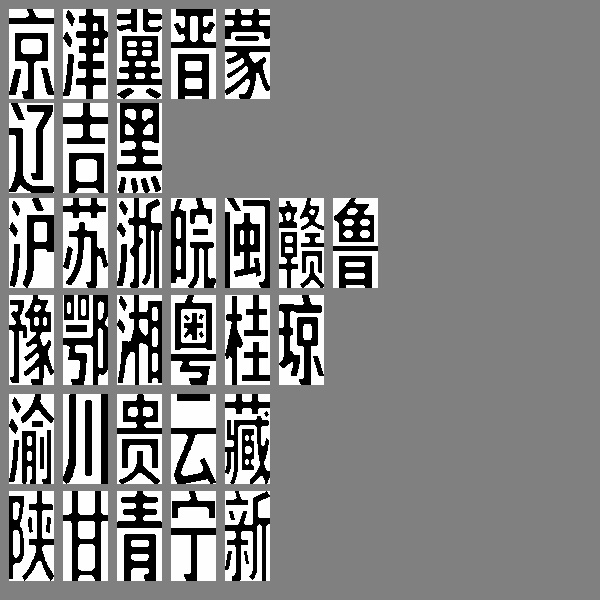
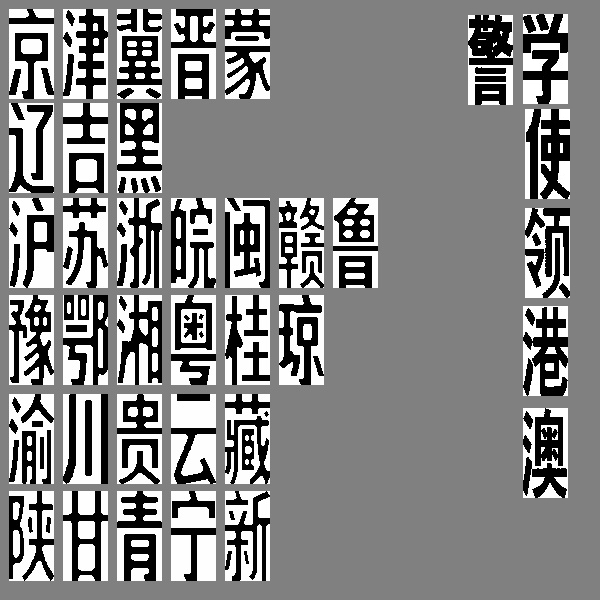
add police/ebassy ...

Changed region(s): [[0.78, 0.0, 0.96, 0.84]]

diff --git a/paste.py b/paste.py
@@ -17,6 +17,15 @@ for char_path in char_paths:
         color = 0
         if 'blue' in bg_path or 'black' in bg_path:
             color = 255
+        if char == '警':
+            if 'white' not in bg_path:
+                continue
+            color = [36, 27, 237]
+        if char == '学' and 'yellow' not in bg_path:
+            continue
+        if char in ['使', '领', '港', '澳']:
+            if 'black' not in bg_path:
+                continue
         bg_img = cv2.imread(bg_path, -1)
         bg_img = cv2.resize(bg_img, (w, h))
 

diff --git a/slice.py b/slice.py
@@ -1,7 +1,7 @@
 import cv2
 import numpy as np
 
-img = cv2.imread('alp.jpg', 0)
+img = cv2.imread('pro.jpg', 0)
 
 tmp = img.copy()
 
@@ -22,4 +22,4 @@ for i, contour in enumerate(contours):
     croped_img = np.repeat(croped_img, 3, -1)
     croped_img = np.concatenate([croped_img, alpha], 2)
 
-    cv2.imwrite('AlpChars/' + str(i) + '.png', croped_img)
+    cv2.imwrite('ProChars/' + str(i) + '.png', croped_img)

diff --git a/README.md b/README.md
@@ -22,7 +22,7 @@ data images.
 ![2](paste_img/Q/blue.jpg)
 ![2](paste_img/7/blue.jpg)
    
-   - Yellow(Gas Vehicle License Plate)
+   - Yellow(Gas Vehicle/Coach Car License Plate)
    
 ![2](paste_img/渝/yellow.jpg)
 ![2](paste_img/A/yellow.jpg)
@@ -54,7 +54,23 @@ data images.
 ![2](paste_img/4/green2.jpg) 
 ![2](paste_img/T/green2.jpg) 
 
-  - Black (Embassy License Plate)
+  - Black (Embassy/HK/MO License Plate)
+
+![2](paste_img/2/black.jpg)
+![2](paste_img/3/black.jpg)
+![2](paste_img/1/black.jpg)
+![2](paste_img/0/black.jpg)
+![2](paste_img/7/black.jpg)
+![2](paste_img/1/black.jpg)
+![2](paste_img/使/black.jpg)
+
+![2](paste_img/鄂/black.jpg)
+![2](paste_img/2/black.jpg)
+![2](paste_img/2/black.jpg)
+![2](paste_img/4/black.jpg)
+![2](paste_img/8/black.jpg)
+![2](paste_img/8/black.jpg)
+![2](paste_img/领/black.jpg)
 
 ![2](paste_img/粤/black.jpg)
 ![2](paste_img/Z/black.jpg)
@@ -62,7 +78,15 @@ data images.
 ![2](paste_img/0/black.jpg)
 ![2](paste_img/2/black.jpg)
 ![2](paste_img/3/black.jpg)
-![2](paste_img/T/black.jpg)
+![2](paste_img/港/black.jpg)
+
+![2](paste_img/粤/black.jpg)
+![2](paste_img/Z/black.jpg)
+![2](paste_img/1/black.jpg)
+![2](paste_img/9/black.jpg)
+![2](paste_img/0/black.jpg)
+![2](paste_img/7/black.jpg)
+![2](paste_img/澳/black.jpg)
 
   - White (Police License Plate)
   
@@ -72,4 +96,4 @@ data images.
 ![2](paste_img/0/white.jpg)
 ![2](paste_img/0/white.jpg)
 ![2](paste_img/0/white.jpg)
-![2](paste_img/6/white.jpg)
+![2](paste_img/警/white.jpg)
